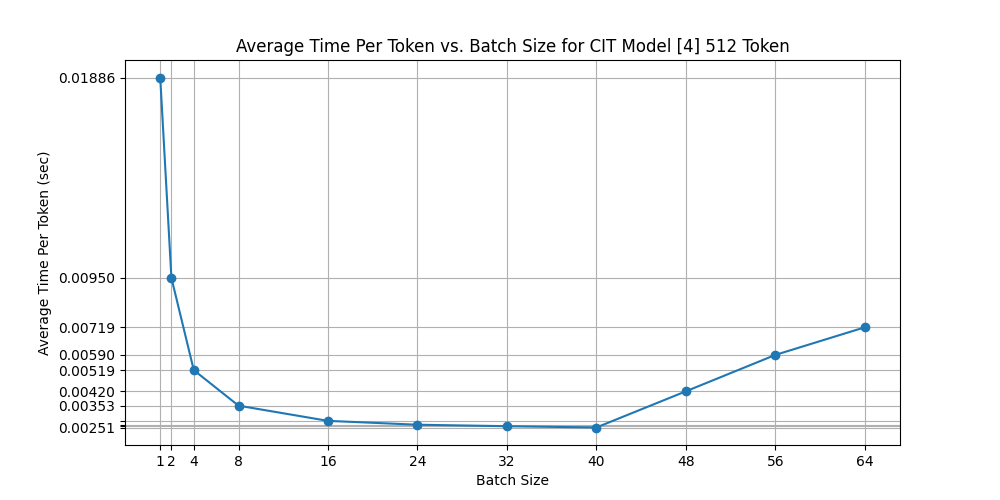
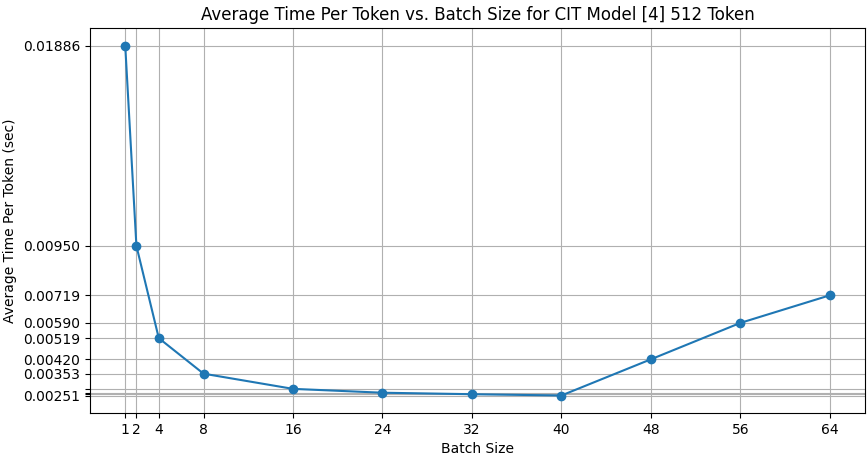
finished sec performance

diff --git a/latex/pages/conclusion.tex b/latex/pages/conclusion.tex
@@ -14,9 +14,9 @@
 
 \subsubsection{Performance}
 
-    A key question that arises is whether it is feasible to generate assets for video games using the developed models. This question can be divided into two distinct parts. The first considers the pre-generation of assets during the development cycle, while the second evaluates whether the models are efficient enough to generate assets in real time on a local machine.
+    A key question that arises is whether it is feasible to generate assets for video games using the developed models. This question can be divided into two distinct parts. The first considers the pre-generation of assets during the development cycle, while the second evaluates whether the models are efficient enough to generate assets in real-time on a local machine.
 
-    The following table provides a detailed overview of the performance metrics for the CIT and SIT models, tested both on GPU (CUDA) and the CPU. To be noted is that the Tokens column refers to the number of tokens used for the generation of the image. The CIT model uses a Batch size of 32 and a Context length of 32 tokens, while the SIT model uses a Batch size of 1 and a context length of 1024 tokens. Both models generate a resulting image of 32x32 pixels. Both models were tested on a local workstation with an NVIDIA GeForce RTX 3090 GPU and an AMD Ryzen 9 7900X CPU
+    The following table provides a detailed overview of the performance metrics for the CIT and SIT models, tested on both GPU and CPU. It is noteworthy that the Tokens column refers to the number of tokens used for generating the image. The CIT model utilizes a batch size of 32 and a context length of 32 tokens, while the SIT model uses a batch size of 1 and a context length of 1024 tokens. Both models generate a resulting image of 32x32 pixels. Each model was tested on a local workstation equipped with an NVIDIA GeForce RTX 3090 GPU and an AMD Ryzen 9 7900X CPU.
 
     \begin{table}[H]
         \centering
@@ -39,12 +39,12 @@
         \label{tab:performance_metrics}
     \end{table}
         
-    The results show that the SIT model is significantly slower than the CIT model, especially when running on the CPU. This is due tu the fact that the processing in the Batch dimentions is way more efficient than in the Token dimension. TODO ADD INFO APPENDIX PLOT
+    The results indicate that the SIT model is significantly slower than the CIT model, especially when running on the CPU. This is because generating a bigger image in the batch dimensions is far more efficient than in the token dimension. For a detailed visualization of the performance scaling across these dimensions, refer to \autoref{fig:performanceTest} for batch dimension scaling and \autoref{fig:performanceTest2} for context dimension scaling on the CIT [model 4].
 
-    It can be said that both methods would be viable in a development environment, where the developer would generate assets in the prototyping or development cycle. The figure \autoref{fig:performanceTest} shows that the expected optimal runtime per pixels is 2.51ms for the sit model this would result in an runntime of ruffly 11 min for a 512x512 image on a 3090 RTX CARD.
+    It can be observed that both methods could be somewhat viable in a development environment where developers generate assets during the prototyping or development cycle. As shown in Figure \autoref{fig:performanceTest}, the expected optimal runtime per pixel for the CIT model is 2.51 milliseconds. This would result in an approximate runtime of roughly 11 minutes for a 512x512 image on an RTX 3090 GPU.
     
-    This could be a problem when thinking about to run these models on a avg gaming capable machine. Due to the vast amount of data and size of the models a big video memory is need. Only 27.17\% have more then 8 GB of VRAM and 49.37\% have at least a NVIDIA GeForce RTX 2060 more newer information form Steam Hard ware study March 2024 \autocite{Valve2024}. This could be a problem for the SIT model, which needs a lot of memory to run. The CIT   model could be run on most of the machines, but the quality of the generated images would be low and with a mentioned addition to the model, the requirements xould even be higher. So a cloud based solution could be a better approach for the case if someone wants to create a game with the capablity to generate asserts on the fly.
-
+    However, this could pose a challenge when considering running these models on an average gaming-capable machine. Due to the large amount of data and the size of the models, substantial video memory is required. Only 27.17\% of users have more than 8 GB of VRAM, and 49.37\% have at least an NVIDIA GeForce RTX 2060, according to the Steam Hardware Survey of March 2024 \autocite{Valve2024}. This could be problematic for the SIT model, which demands considerable memory to operate effectively. The CIT model could run on most machines, but the size/context length of the generated images would be compromised, and any enhancements to the model could further increase system requirements. Thus, a cloud-based solution might be a better approach for this case, when the created games should be capable of generating assets on the fly.
+    
 
 \subsection{Further research}
 

diff --git a/latex/pages/appendix.tex b/latex/pages/appendix.tex
@@ -212,14 +212,19 @@
 
 \begin{figure}[H]
     \centering
-    \includegraphics[width=1\textwidth]{imgs/performanceTest.png}
-    \caption{Average Time Per Token vs. Batch Size for CIT Model [4] 512 Token}
+    \includegraphics[width=0.9\textwidth]{imgs/performanceTest.png}
+    \caption{Average time per token vs. batch size for CIT model [4] 512 token}
     \label{fig:performanceTest}
 \end{figure}
 
 As illustrated in Figure \ref{fig:performanceTest}, the batch size is plotted against the average time per generated token. The test was conducted on a local workstation equipped with an NVIDIA RTX 3090 GPU. Notably, the average time per token decreases logarithmically as the batch size increases. However, upon reaching a batch size of 40, the GPUs 24GB of memory becomes fully utilized, resulting in a noticeable linear increase in processing time. This slowdown occurs because PyTorch begins to utilize an additional 32GB of shared system memory to manage the increased data load.
 
-
+\begin{figure}[H]
+    \centering
+    \includegraphics[width=0.9\textwidth]{imgs/performanceTest2.png}
+    \caption{Total generation time vs. context size for CIT model [4] 512 token}
+    \label{fig:performanceTest2}
+\end{figure}
 
 
 \newpage

diff --git a/code/models/rowModel/rowModelPerformanceTest.py b/code/models/rowModel/rowModelPerformanceTest.py
@@ -248,10 +248,18 @@ def run_test(gen_length, W):
     print(f"{W} {gen_length} {C}")
     print(f"{device}:   Time: {stop_time - start_time} sec; avg time per token: {(stop_time - start_time) / gen_length / W} sec")
 
-
-run_test(512, 24)
-run_test(512, 40)
-run_test(512, 48)
-run_test(512, 56)
-run_test(512, 128)
+run_test(1, 1)
+run_test(2, 1)
+run_test(4, 1)
+run_test(8, 1)
+run_test(16, 1)
+run_test(32, 1)
+run_test(64, 1)
+run_test(128, 1)
+run_test(192, 1)
+run_test(256, 1)
+run_test(320, 1)
+run_test(384, 1)
+run_test(448, 1)
+run_test(512, 1)
 
